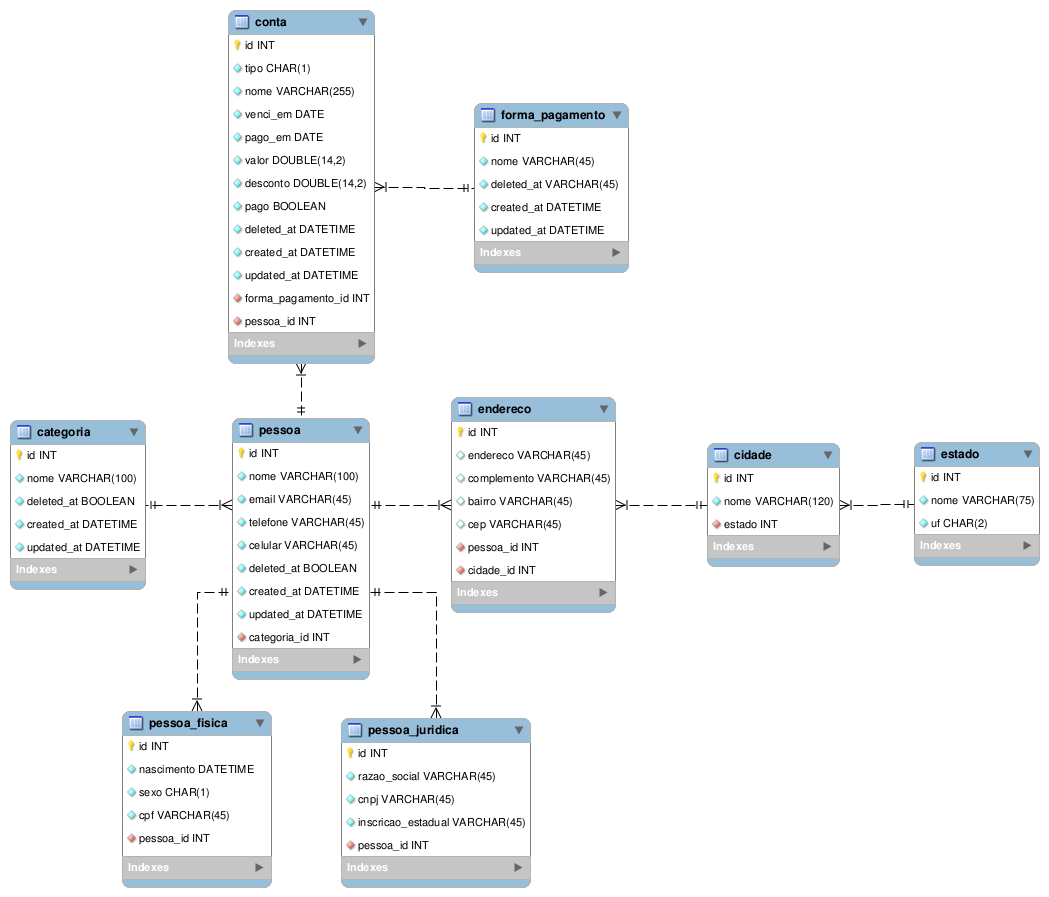
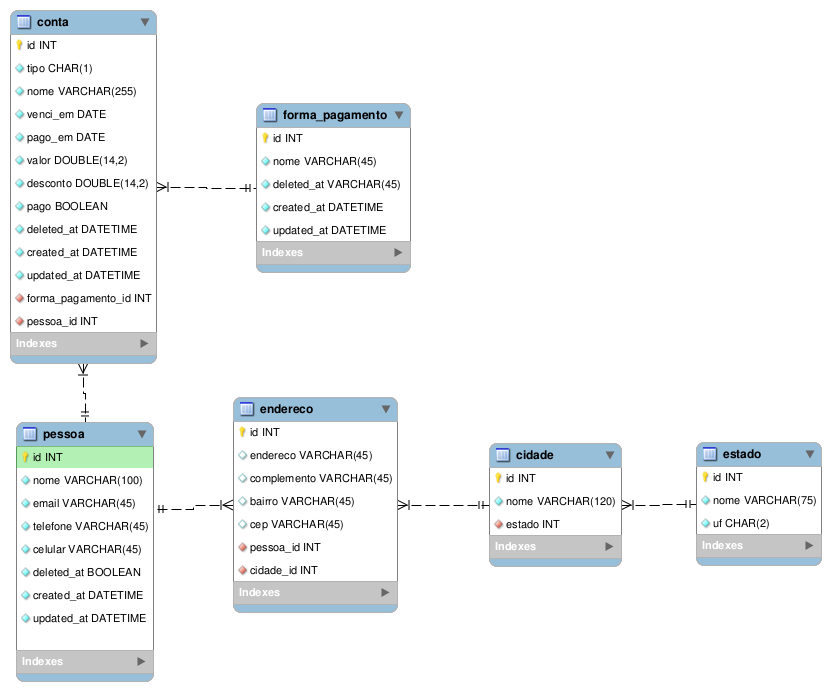
Simplificando crud de cadastro de pessoa

Changed region(s): [[0.0, 0.0, 0.8123, 1.0], [0.8123, 0.4863, 0.9928, 0.8205]]

diff --git a/assets/js/pessoa.js b/assets/js/pessoa.js
@@ -11,11 +11,7 @@ $(document).ready(function() {
     //regras de validacao do formulario
     var validacao = $('#form_pessoa').validate({
       rules: {
-        tipo: { required: true},
-        categoria: { required: true},
         nome: { required: true},
-        sexo: { required: true},
-        nascimento: { required: true},
         email: { required: true},
         telefone: { minlength: 14},
         celular: { minlength: 14},
@@ -26,11 +22,7 @@ $(document).ready(function() {
         cidade: {required: true}
       },
       messages: {
-        tipo: { required: 'Preencha o campo Tipo cadastro' },
-        categoria: { required: 'Preencha o campo Categoria' },
         nome: { required: 'Preencha o campo Nome' },
-        sexo: { required: 'Preencha o campo Sexo' },
-        nascimento: { required: 'Preencha o campo Nascimento' },
         email: { required: 'Preencha o campo Email' },
         endereco: { required: 'Preencha o campo Endereço'},
         estado: { required: 'Preencha o campo Estado'},
@@ -185,47 +177,6 @@ function retornoPesquisar(json, erro) {
     $('#view-form-usuario').show();
     $('#view-detalhe').hide();
     $('.ac-toggle-senha').parent().removeClass('ls-display-none');
-
-    var senha = $('#senha');
-    var cofsenha = $('#cofsenha');
-
-    if(senha.attr('name')=='senha'){          
-      //remove o atributo name da senha
-      console.info("O atributo name da senha e cofsenha forma removidos");
-      senha.removeAttr('name');
-      cofsenha.removeAttr('name');
-      $('.ac-password').addClass('ls-display-none');
-
-      //remove as regras de validacao da senha
-      $("#senha").rules("remove");
-      $("#cofsenha").rules("remove");
-
-      //variavel flag para controlar a validacao 
-      $('#existesenha').val('0');
-
-    }
-
-    var crmv  = $("#crmv");
-
-    if($('#perfil').val() == '0'){
-      console.info("Torna o crmv opcional");
-
-      //remove a validacao obrigatoriedade
-      crmv.rules("remove","required");
-
-      //remove a formatacao de obrigatoriedade
-      crmv.prev().removeClass('ac-req');
-    }else{
-      console.info("Torna o crmv obrigatorio");
-
-      //adiciona novamente a validacao
-      crmv.rules( "add", {required: true, messages: {required: "Preencha o campo CRMV"}});
-
-      //adiciona a formatacao de obirgatoriedade
-      crmv.prev().addClass('ac-req');
-
-    }
-
 
 } 
 

diff --git a/application/views/pessoa.php b/application/views/pessoa.php
@@ -47,32 +47,6 @@
     
 
     <?php echo form_open('pessoa', ['id' => 'form_pessoa']);?>
-    <fieldset>
-        <legend>Tipo de Cadastro</legend>
-    </fieldset>    
-    
-    <div class="row">
-        <div class="col-md-6">
-            <div class="form-group">
-                <label for="tipo" class="req">Tipo de Cadastro:</label>
-                <br>
-                <input name="tipo" value="F" required type="radio" /> Pessoa Fisíca  &nbsp;
-                <input name="tipo" value="J" required type="radio" /> Pessoa Jurídica 
-            </div>
-            <b><label for="tipo" class="error"></label></b>
-        </div>            
-
-        <div class="col-md-6">
-            <div class="form-group">
-                <label for="categoria" class="req">Categoria:</label>
-                <br>
-                <input name="categoria" value="0" required type="radio" /> Funcionário  &nbsp;
-                <input name="categoria" value="1" required type="radio" /> Fornecedor  &nbsp;
-                <input name="categoria" value="2" required type="radio" /> Cliente
-            </div>
-            <b><label for="categoria" class="error"></label></b>
-        </div>            
-    </div>    
     
     <fieldset>
         <legend>Cadastrar Cliente</legend>
@@ -86,32 +60,6 @@
             </div>
         </div>        
         
-        <div class="col-md-3">
-            <div class="form-group">
-                <label for="cpf">CPF:</label>
-                <input type="text" class="form-control" id="cpf" name="cpf">
-            </div>
-        </div>        
-        
-        <div class="col-md-3">
-            <div class="form-group">
-                <label for="sexo" class="req">Sexo: </label>
-                <br>
-                <input name="sexo" value="M" required type="radio" /> Masculino &nbsp;
-                <input name="sexo" value="F" required type="radio" /> Feminino 
-            </div>
-            <b><label for="sexo" class="error"></label></b>
-        </div>        
-        
-        <div class="col-md-3">
-            <div class="form-group">
-                <label for="nascimento" >Nascimento:</label>
-                <input type="date" class="form-control" id="nascimento" name="nascimento">
-            </div>
-        </div>
-    </div>    
-    
-    <div class="row">
         <div class="col-md-3">
             <div class="form-group">
                 <label for="email" class="req">E-mail:</label>
